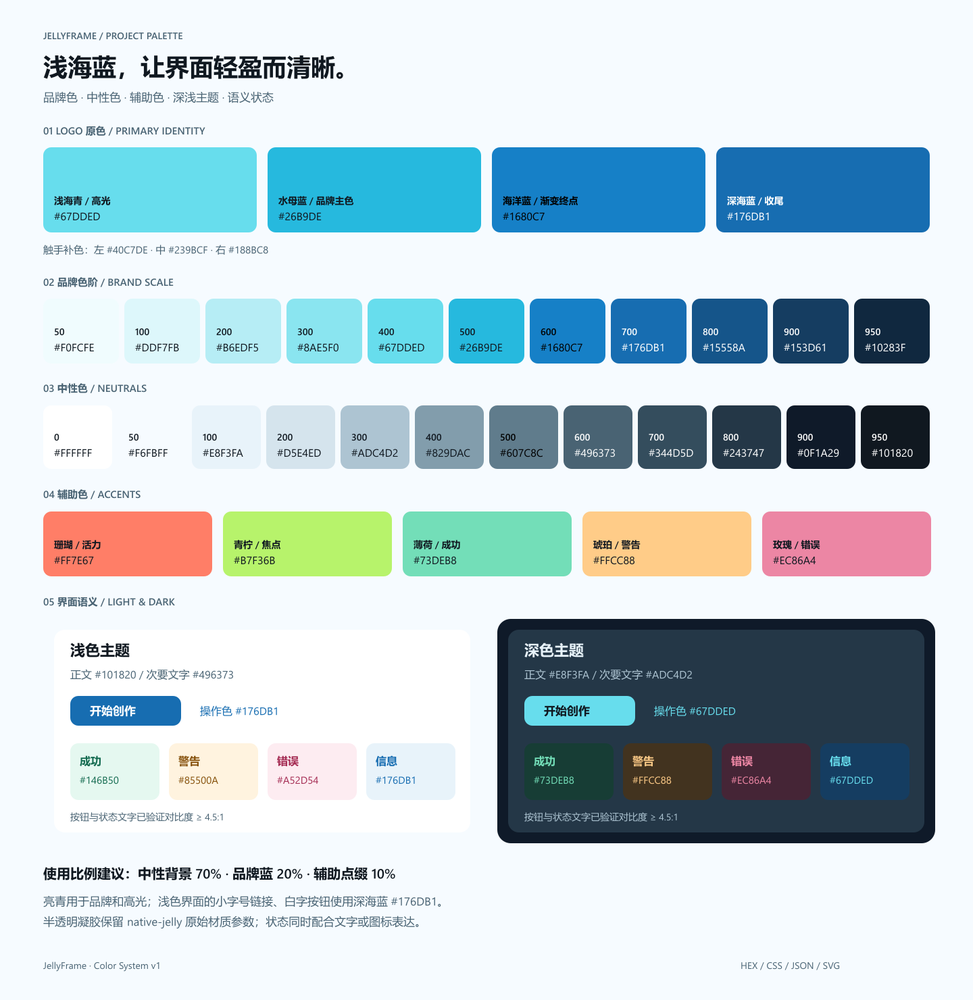
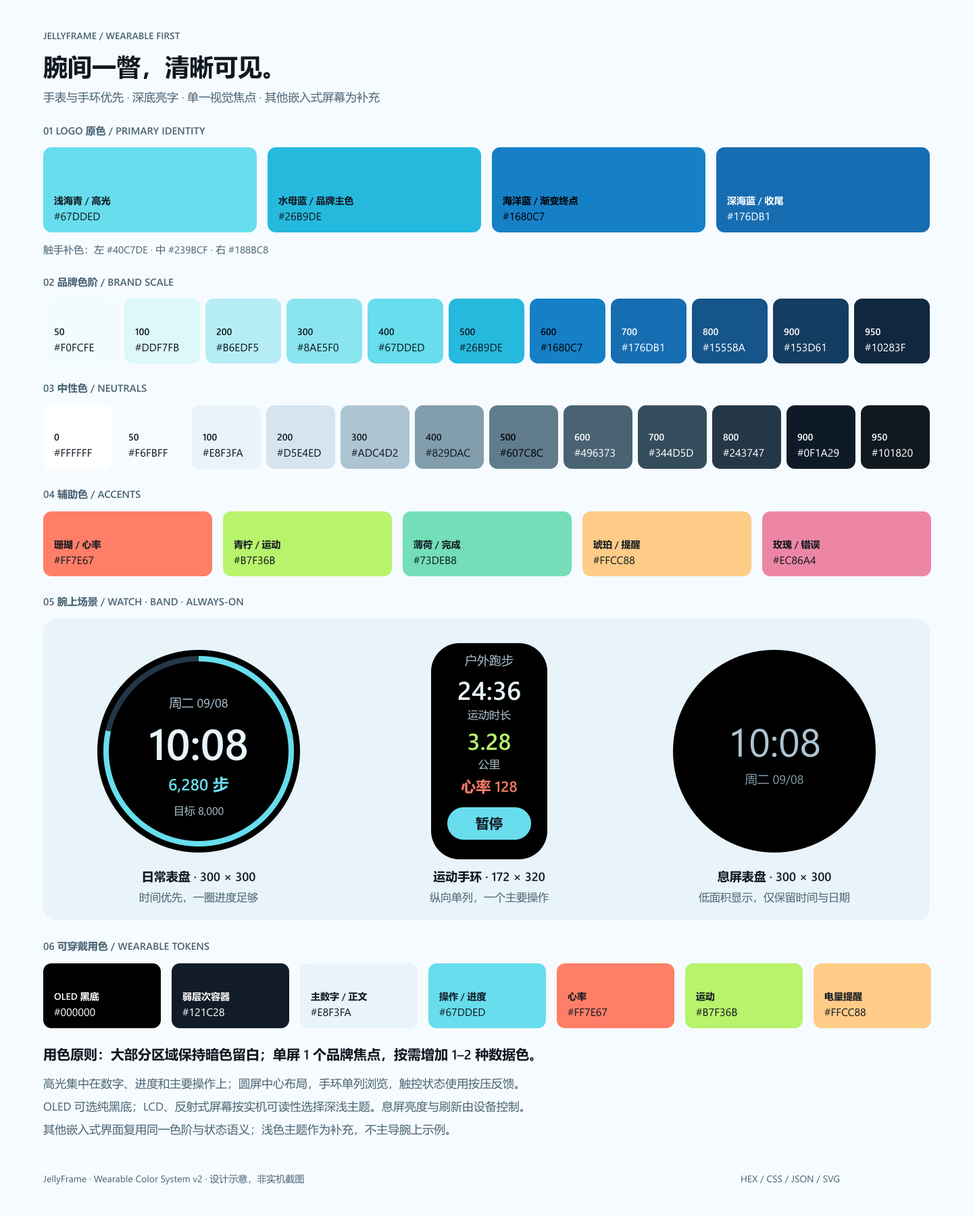
docs(brand): refine wearable-first palette guidance

diff --git a/docs/assets/brand/palette.css b/docs/assets/brand/palette.css
@@ -95,3 +95,38 @@
   --jf-color-info: #67DDED;
   --jf-color-info-surface: #153D61;
 }
+
+.jf-theme-wearable {
+  --jf-color-background: #000000;
+  --jf-color-surface: #121C28;
+  --jf-color-surface-raised: #1C2C3C;
+  --jf-color-text: #E8F3FA;
+  --jf-color-text-muted: #ADC4D2;
+  --jf-color-border: #344D5D;
+  --jf-color-control-border: #829DAC;
+  --jf-color-primary: #67DDED;
+  --jf-color-primary-hover: #8AE5F0;
+  --jf-color-on-primary: #101820;
+  --jf-color-link: #67DDED;
+  --jf-color-focus: #67DDED;
+  --jf-color-selection: #15558A;
+  --jf-color-on-selection: #E8F3FA;
+  --jf-color-success: #73DEB8;
+  --jf-color-success-surface: #173D35;
+  --jf-color-warning: #FFCC88;
+  --jf-color-warning-surface: #42331F;
+  --jf-color-danger: #EC86A4;
+  --jf-color-danger-surface: #452536;
+  --jf-color-info: #67DDED;
+  --jf-color-info-surface: #153D61;
+  --jf-color-primary-pressed: #26B9DE;
+  --jf-color-heart-rate: #FF7E67;
+  --jf-color-activity: #B7F36B;
+  --jf-color-progress-track: #243747;
+}
+
+:root {
+  --jf-aod-background: #000000;
+  --jf-aod-time: #ADC4D2;
+  --jf-aod-text: #829DAC;
+}

diff --git a/docs/assets/brand/generate_palette.py b/docs/assets/brand/generate_palette.py
@@ -1,11 +1,14 @@
 """Generate palette CSS, SVG and reference from palette.json (Python stdlib only)."""
 import json
+import math
 import re
 from html import escape
 from pathlib import Path
 
 ROOT = Path(__file__).resolve().parent
 data = json.loads((ROOT / 'palette.json').read_text(encoding='utf-8'))
+wearable = {**data['themes']['dark'], **data['wearable']}
+themes = {**data['themes'], 'wearable': wearable}
 
 
 def kebab(value):
@@ -33,10 +36,18 @@ for theme, selector in [('light', ':root, .jf-theme-light'), ('dark', '.jf-theme
     for name, value in data['themes'][theme].items():
         css.append(f'  --jf-color-{kebab(name)}: {value};')
     css.append('}')
+css.append('\n.jf-theme-wearable {')
+for name, value in wearable.items():
+    css.append(f'  --jf-color-{kebab(name)}: {value};')
+css.append('}')
+css.append('\n:root {')
+for name, value in data['aod'].items():
+    css.append(f'  --jf-aod-{kebab(name)}: {value};')
+css.append('}')
 (ROOT / 'palette.css').write_text('\n'.join(css) + '\n', encoding='utf-8')
 
 checks = []
-for theme, colors in data['themes'].items():
+for theme, colors in themes.items():
     pairs = [('text', 'background'), ('text', 'surface'), ('text', 'surfaceRaised'),
              ('textMuted', 'background'), ('textMuted', 'surface'),
              ('link', 'background'), ('link', 'surface'),
@@ -52,9 +63,20 @@ for theme, colors in data['themes'].items():
             ratio = contrast(colors[foreground], colors[background])
             assert ratio >= 3, (theme, foreground, background, ratio)
             checks.append(f'| {theme} | `{foreground}` / `{background}`（非文本） | {ratio:.2f}:1 |')
+for key in ('heartRate', 'activity'):
+    ratio = contrast(wearable[key], wearable['background'])
+    assert ratio >= 4.5
+    checks.append(f'| wearable | `{key}` / `background` | {ratio:.2f}:1 |')
+ratio = contrast(wearable['onPrimary'], wearable['primaryPressed'])
+assert ratio >= 4.5
+checks.append(f'| wearable | `onPrimary` / `primaryPressed` | {ratio:.2f}:1 |')
+for key in ('time', 'text'):
+    ratio = contrast(data['aod'][key], data['aod']['background'])
+    assert ratio >= 4.5
+    checks.append(f'| aod | `{key}` / `background` | {ratio:.2f}:1 |')
 
-parts = ['<svg xmlns="http://www.w3.org/2000/svg" width="1440" height="1480" viewBox="0 0 1440 1480">',
-         '<rect width="1440" height="1480" fill="#F6FBFF"/>']
+parts = ['<svg xmlns="http://www.w3.org/2000/svg" width="1440" height="1800" viewBox="0 0 1440 1800">',
+         '<rect width="1440" height="1800" fill="#F6FBFF"/>']
 
 
 def rect(x, y, w, h, fill, radius=0):
@@ -74,9 +96,9 @@ def swatch(x, y, width, height, color, title):
     text(x + 16, y + height - 18, color, 16, ink)
 
 
-text(64, 58, 'JELLYFRAME / PROJECT PALETTE', 14, '#496373', 600)
-text(64, 112, '浅海蓝，让界面轻盈而清晰。', 36, weight=600)
-text(64, 150, '品牌色 · 中性色 · 辅助色 · 深浅主题 · 语义状态', 17, '#496373')
+text(64, 58, 'JELLYFRAME / WEARABLE FIRST', 14, '#496373', 600)
+text(64, 112, '腕间一瞥，清晰可见。', 36, weight=600)
+text(64, 150, '手表与手环优先 · 深底亮字 · 单一视觉焦点 · 其他嵌入式屏幕为补充', 17, '#496373')
 text(64, 199, '01  LOGO 原色 / PRIMARY IDENTITY', 15, '#496373', 600)
 for i, (key, label) in enumerate([('highlight', '浅海青 / 高光'), ('primary', '水母蓝 / 品牌主色'), ('ocean', '海洋蓝 / 渐变终点'), ('depth', '深海蓝 / 收尾')]):
     swatch(64 + i * 332, 218, 316, 126, data['logo'][key], label)
@@ -88,36 +110,62 @@ text(64, 580, '03  中性色 / NEUTRALS', 15, '#496373', 600)
 for i, (key, color) in enumerate(data['neutral'].items()):
     swatch(64 + i * 110, 600, 102, 94, color, key)
 text(64, 737, '04  辅助色 / ACCENTS', 15, '#496373', 600)
-for i, (key, label) in enumerate([('coral', '珊瑚 / 活力'), ('lime', '青柠 / 焦点'), ('mint', '薄荷 / 成功'), ('amber', '琥珀 / 警告'), ('rose', '玫瑰 / 错误')]):
+for i, (key, label) in enumerate([('coral', '珊瑚 / 心率'), ('lime', '青柠 / 运动'), ('mint', '薄荷 / 完成'), ('amber', '琥珀 / 提醒'), ('rose', '玫瑰 / 错误')]):
     swatch(64 + i * 266, 757, 250, 96, data['accent'][key], label)
-text(64, 896, '05  界面语义 / LIGHT & DARK', 15, '#496373', 600)
-for index, theme in enumerate(('light', 'dark')):
-    c = data['themes'][theme]
-    x = 64 + index * 672
-    rect(x, 916, 648, 332, c['background'], 20)
-    rect(x + 16, 932, 616, 300, c['surface'], 16)
-    text(x + 40, 970, '浅色主题' if theme == 'light' else '深色主题', 22, c['text'], 600)
-    text(x + 40, 1004, f"正文 {c['text']}   /   次要文字 {c['textMuted']}", 16, c['textMuted'])
-    rect(x + 40, 1030, 164, 44, c['primary'], 12)
-    text(x + 69, 1058, '开始创作', 17, c['onPrimary'], 600)
-    text(x + 232, 1058, f"操作色 {c['primary']}", 16, c['link'])
-    for j, (key, label) in enumerate([('success', '成功'), ('warning', '警告'), ('danger', '错误'), ('info', '信息')]):
-        sx = x + 40 + j * 146
-        rect(sx, 1100, 132, 84, c[key + 'Surface'], 12)
-        text(sx + 14, 1132, label, 16, c[key], 600)
-        text(sx + 14, 1160, c[key], 15, c[key])
-    text(x + 40, 1214, '按钮与状态文字已验证对比度 ≥ 4.5:1', 14, c['textMuted'])
-text(64, 1300, '使用比例建议：中性背景 70% · 品牌蓝 20% · 辅助点缀 10%', 20, weight=600)
-text(64, 1340, '亮青用于品牌和高光；浅色界面的小字号链接、白字按钮使用深海蓝 #176DB1。', 17, '#496373')
-text(64, 1370, '半透明凝胶保留 native-jelly 原始材质参数；状态同时配合文字或图标表达。', 17, '#496373')
-text(64, 1434, 'JellyFrame · Color System v1', 14, '#496373')
-text(1096, 1434, 'HEX / CSS / JSON / SVG', 14, '#496373')
+text(64, 896, '05  腕上场景 / WATCH · BAND · ALWAYS-ON', 15, '#496373', 600)
+rect(64, 916, 1312, 446, '#E8F3FA', 20)
+c = wearable
+
+
+def center(x, y, label, size, fill, weight=400):
+    parts.append(f'<text x="{x}" y="{y}" text-anchor="middle" font-family="Segoe UI, Microsoft YaHei, sans-serif" font-size="{size}" font-weight="{weight}" fill="{fill}">{escape(label)}</text>')
+
+
+# Device coordinates are literal pixel sizes; these are design references, not runtime captures.
+parts.append('<circle cx="294" cy="1112" r="150" fill="#000000"/>')
+parts.append(f'<circle cx="294" cy="1112" r="137" fill="none" stroke="{c["progressTrack"]}" stroke-width="8"/>')
+ring_length = 2 * math.pi * 137
+parts.append(f'<circle cx="294" cy="1112" r="137" fill="none" stroke="{c["primary"]}" stroke-width="8" stroke-dasharray="{ring_length * 6280 / 8000:.2f} {ring_length:.2f}" transform="rotate(-90 294 1112)"/>')
+center(294, 1047, '周二  09/08', 18, c['textMuted'])
+center(294, 1125, '10:08', 64, c['text'], 600)
+center(294, 1170, '6,280 步', 24, c['primary'], 600)
+center(294, 1206, '目标 8,000', 16, c['textMuted'])
+center(294, 1304, '日常表盘 · 300 × 300', 18, '#101820', 600)
+center(294, 1334, '时间优先，一圈进度足够', 16, '#496373')
+
+rect(638, 952, 172, 320, '#000000', 42)
+center(724, 984, '户外跑步', 18, c['textMuted'])
+center(724, 1036, '24:36', 38, c['text'], 600)
+center(724, 1064, '运动时长', 16, c['textMuted'])
+center(724, 1110, '3.28', 34, c['activity'], 600)
+center(724, 1137, '公里', 16, c['textMuted'])
+center(724, 1172, '心率 128', 22, c['heartRate'], 600)
+rect(662, 1195, 124, 48, c['primary'], 24)
+center(724, 1226, '暂停', 20, c['onPrimary'], 600)
+center(724, 1304, '运动手环 · 172 × 320', 18, '#101820', 600)
+center(724, 1334, '纵向单列，一个主要操作', 16, '#496373')
+
+aod = data['aod']
+parts.append(f'<circle cx="1146" cy="1112" r="150" fill="{aod["background"]}"/>')
+center(1146, 1120, '10:08', 58, aod['time'])
+center(1146, 1160, '周二  09/08', 18, aod['text'])
+center(1146, 1304, '息屏表盘 · 300 × 300', 18, '#101820', 600)
+center(1146, 1334, '低面积显示，仅保留时间与日期', 16, '#496373')
+text(64, 1406, '06  可穿戴用色 / WEARABLE TOKENS', 15, '#496373', 600)
+for i, (color, label) in enumerate([(c['background'], 'OLED 黑底'), (c['surface'], '弱层次容器'), (c['text'], '主数字 / 正文'), (c['primary'], '操作 / 进度'), (c['heartRate'], '心率'), (c['activity'], '运动'), (c['warning'], '电量提醒')]):
+    swatch(64 + i * 190, 1426, 174, 96, color, label)
+text(64, 1568, '用色原则：大部分区域保持暗色留白；单屏 1 个品牌焦点，按需增加 1–2 种数据色。', 20, weight=600)
+text(64, 1610, '高光集中在数字、进度和主要操作上；圆屏中心布局，手环单列浏览，触控状态使用按压反馈。', 17, '#496373')
+text(64, 1644, 'OLED 可选纯黑底；LCD、反射式屏幕按实机可读性选择深浅主题。息屏亮度与刷新由设备控制。', 17, '#496373')
+text(64, 1678, '其他嵌入式界面复用同一色阶与状态语义；浅色主题作为补充，不主导腕上示例。', 17, '#496373')
+text(64, 1750, 'JellyFrame · Wearable Color System v2 · 设计示意，非实机截图', 14, '#496373')
+text(1096, 1750, 'HEX / CSS / JSON / SVG', 14, '#496373')
 parts.append('</svg>')
 (ROOT / 'palette.svg').write_text('\n'.join(parts) + '\n', encoding='utf-8')
 
-doc = ['# JellyFrame 项目色卡', '', '> 最后更新：2026-09-08；色卡版本：1；适用版本：0.6.0-dev', '',
+doc = ['# JellyFrame 可穿戴优先项目色卡', '', '> 最后更新：2026-09-08；适用版本：0.6.0-dev；色卡版本：2', '',
        '![JellyFrame 项目色卡](palette.png)', '',
-       '本色卡从实际 Logo 配色扩展，沿用 `native-jelly` 的浅海蓝、珊瑚、青柠与凝胶材质。新增色阶和语义映射供后续界面使用；当前应用模板的配色不会因添加色卡自动改变。', '',
+       '首要服务对象是小屏可穿戴设备，尤其是手表与手环；其他嵌入式屏幕为次要场景。保留已确定的 Logo 原色和色阶，以深底亮字、大数字、少量数据色和短时扫读为主要应用方式。色卡示例为设计参考，未自动修改现有 app 模板。', '',
        '## Logo 的实际用色', '', '| 角色 | HEX |', '| --- | --- |']
 for key, color in data['logo'].items():
     doc.append(f'| {key} | `{color}` |')
@@ -129,20 +177,39 @@ doc += ['', '品牌 500 是视觉主色；品牌 700 是浅色界面的主要操
         '## 深浅主题语义', '', '| Token | 浅色 | 深色 |', '| --- | --- | --- |']
 for key, value in data['themes']['light'].items():
     doc.append(f"| `{key}` | `{value}` | `{data['themes']['dark'][key]}` |")
-doc += ['', '## 凝胶材质', '', '以下数值保留现有设计系统定义。RGBA 是叠加层参数，最终观感取决于底色，不能当成固定 HEX 或直接作为文字对比度保证。', '', '| Token | 值 |', '| --- | --- |']
+doc += ['', '## 可穿戴主题（首选）', '',
+        '`.jf-theme-wearable` 继承深色语义，使用以下覆盖和数据色。适用于 OLED 手表、手环的活跃界面；LCD 或反射式屏幕按面板特性和户外实测选择深浅主题，纯黑底的功耗收益不适用于所有显示技术。', '',
+        '| Token | 值 |', '| --- | --- |']
+doc += [f'| `{key}` | `{value}` |' for key, value in data['wearable'].items()]
+doc += ['', '`primaryPressed` 用于触控按下反馈；腕上交互不依赖 hover。珊瑚心率色和青柠运动色表示数据类别，不能直接表示健康异常或告警级别。提醒继续使用 warning，错误使用 danger，并配合文字或图标。', '',
+        '### 息屏表盘（AOD）', '', '| Token | 值 |', '| --- | --- |']
+doc += [f'| `{key}` | `{value}` |' for key, value in data['aod'].items()]
+doc += ['', 'AOD 是独立的显示建议：只保留时间和必要日期，去除进度环、渐变、大面积填充和按钮。色值本身不会启用息屏模式或保证功耗；低亮度、刷新间隔、像素位移与防烧屏策略由设备端实现并验证。', '',
+        '### 小屏布局与配色示例', '',
+        '- 300×300 圆表：时间为第一层，步数为第二层，进度环只作为辅助。重要信息居中并避开圆屏裁切区；示意边缘环允许使用边缘区域。',
+        '- 172×320 手环：单列显示运动时长、距离和心率，底部仅一个“暂停”操作。不要把桌面多列卡片等比缩小。示例按钮为 124×48 像素，实际触控目标应根据面板尺寸、像素密度、交互方式和触控误差验证。',
+        '- 色卡中的设备画面采用对应的逻辑像素尺寸；图片在文档中缩放后不代表真实物理尺寸。它们是设计示意，不是 JellyFrame 引擎截图。',
+        '- 活跃界面使用大面积暗底与留白，单屏通常一个品牌焦点，按需增加 1–2 种数据色。不要机械执行桌面页面的 70/20/10 色块比例。',
+        '- 主数字建议从 32–64 逻辑像素探索，关键标签从 16–20 像素探索；最终以字体包、面板像素密度、腕距和户外可读性校准。',
+        '- 优先使用实色文字和实色进度，凝胶高光限于小范围主动交互，常驻界面避免持续装饰动画；AOD 不使用凝胶叠层。',
+        '- RGB565、灰度和单色目标需要实机复核色差、条带、文字与进度辨识度。即使没有色彩，数值、标签和进度形状也应传达状态。', '',
+        '## 凝胶材质', '', '以下数值保留现有设计系统定义。RGBA 是叠加层参数，最终观感取决于底色，不能当成固定 HEX 或直接作为文字对比度保证。', '', '| Token | 值 |', '| --- | --- |']
 doc += [f'| `{key}` | `{value}` |' for key, value in data['material'].items()]
 doc += ['', '## 使用规则与接入', '',
-        '- 建议中性色约 70%、品牌蓝约 20%、辅助点缀约 10%；这是视觉配比建议，不是布局约束。',
+        '- 手表、手环优先使用可穿戴主题；其他嵌入式界面复用深浅主题与相同状态语义。',
         '- 亮青优先用于标识、图形和高光。浅色主题的小字链接、白字按钮使用 `#176DB1`；不要直接在明亮的品牌 500 上叠加白色小字。',
         '- `border` 用于装饰分隔；需要识别控件边界时使用 `controlBorder`。焦点环与控件之间留出背景色间隔。',
         '- 状态同时配合文案或图标；珊瑚与青柠是点缀色，不默认绑定错误或成功。',
         '- VS Code 内部控件继续使用 `--vscode-*` 主题变量，保持用户主题与高对比主题适配；本色卡适合项目自有界面和品牌素材。',
         '- `palette.json` 是色卡数据源；运行 `python docs/assets/brand/generate_palette.py` 更新 CSS、SVG 和本文，并验证不透明颜色配对的对比度。PNG 是 SVG 的栅格预览，需在修改后重新导出。',
         '- `palette.css` 使用 `--jf-brand-*`、`--jf-neutral-*`、`--jf-accent-*`、`--jf-material-*` 和 `--jf-color-*`，避开现有 `--jf-surface` 等模板变量。导入后将语义变量映射到需要的控件样式。', '',
-        '```css', '/* 引入 palette.css；默认浅色。给主题容器添加 jf-theme-dark 可切换深色。 */',
+        '```css', '/* 引入 palette.css，并为设备 app 的根容器添加 jf-theme-wearable。 */',
         '.app { background-color: var(--jf-color-background); color: var(--jf-color-text); }',
         '.primary-button { background-color: var(--jf-color-primary); color: var(--jf-color-on-primary); }',
+        '.jf-theme-wearable .primary-button:active { background-color: var(--jf-color-primary-pressed); }',
+        '.aod { background-color: var(--jf-aod-background); color: var(--jf-aod-time); }',
         '```', '',
+        'CSS 保留默认浅色以兼容已有引用；腕上 app 显式使用 `jf-theme-wearable`。`jf-theme-light` / `jf-theme-dark` 可供其他设备选择。AOD 变量仅提供显示色值，不触发设备生命周期或电源管理。', '',
         'Logo 的三色渐变用于 SVG 品牌素材。嵌入式 UI 按现有渲染能力使用两色渐变 `linear-gradient(#67DDED, #1680C7)`，不将 SVG 或三色渐变支持视为运行时前提。', '',
         '## 对比度记录', '', '按 WCAG sRGB 相对亮度计算，以下不透明文字配对通过 AA 普通文本 4.5:1；标注“非文本”的焦点与控件边界配对通过 3:1。该记录只覆盖列出的组合，不代表任意叠层、渐变或整套应用均通过检查。', '',
         '| 主题 | 前景 / 背景 | 对比度 |', '| --- | --- | --- |', *checks, '']

diff --git a/docs/assets/brand/PALETTE_zh.md b/docs/assets/brand/PALETTE_zh.md
@@ -1,10 +1,10 @@
-# JellyFrame 项目色卡
+# JellyFrame 可穿戴优先项目色卡
 
-> 最后更新：2026-09-08；色卡版本：1；适用版本：0.6.0-dev
+> 最后更新：2026-09-08；适用版本：0.6.0-dev；色卡版本：2
 
 ![JellyFrame 项目色卡](palette.png)
 
-本色卡从实际 Logo 配色扩展，沿用 `native-jelly` 的浅海蓝、珊瑚、青柠与凝胶材质。新增色阶和语义映射供后续界面使用；当前应用模板的配色不会因添加色卡自动改变。
+首要服务对象是小屏可穿戴设备，尤其是手表与手环；其他嵌入式屏幕为次要场景。保留已确定的 Logo 原色和色阶，以深底亮字、大数字、少量数据色和短时扫读为主要应用方式。色卡示例为设计参考，未自动修改现有 app 模板。
 
 ## Logo 的实际用色
 
@@ -57,6 +57,42 @@
 | `info` | `#176DB1` | `#67DDED` |
 | `infoSurface` | `#E8F3FA` | `#153D61` |
 
+## 可穿戴主题（首选）
+
+`.jf-theme-wearable` 继承深色语义，使用以下覆盖和数据色。适用于 OLED 手表、手环的活跃界面；LCD 或反射式屏幕按面板特性和户外实测选择深浅主题，纯黑底的功耗收益不适用于所有显示技术。
+
+| Token | 值 |
+| --- | --- |
+| `background` | `#000000` |
+| `surface` | `#121C28` |
+| `surfaceRaised` | `#1C2C3C` |
+| `primaryPressed` | `#26B9DE` |
+| `heartRate` | `#FF7E67` |
+| `activity` | `#B7F36B` |
+| `progressTrack` | `#243747` |
+
+`primaryPressed` 用于触控按下反馈；腕上交互不依赖 hover。珊瑚心率色和青柠运动色表示数据类别，不能直接表示健康异常或告警级别。提醒继续使用 warning，错误使用 danger，并配合文字或图标。
+
+### 息屏表盘（AOD）
+
+| Token | 值 |
+| --- | --- |
+| `background` | `#000000` |
+| `time` | `#ADC4D2` |
+| `text` | `#829DAC` |
+
+AOD 是独立的显示建议：只保留时间和必要日期，去除进度环、渐变、大面积填充和按钮。色值本身不会启用息屏模式或保证功耗；低亮度、刷新间隔、像素位移与防烧屏策略由设备端实现并验证。
+
+### 小屏布局与配色示例
+
+- 300×300 圆表：时间为第一层，步数为第二层，进度环只作为辅助。重要信息居中并避开圆屏裁切区；示意边缘环允许使用边缘区域。
+- 172×320 手环：单列显示运动时长、距离和心率，底部仅一个“暂停”操作。不要把桌面多列卡片等比缩小。示例按钮为 124×48 像素，实际触控目标应根据面板尺寸、像素密度、交互方式和触控误差验证。
+- 色卡中的设备画面采用对应的逻辑像素尺寸；图片在文档中缩放后不代表真实物理尺寸。它们是设计示意，不是 JellyFrame 引擎截图。
+- 活跃界面使用大面积暗底与留白，单屏通常一个品牌焦点，按需增加 1–2 种数据色。不要机械执行桌面页面的 70/20/10 色块比例。
+- 主数字建议从 32–64 逻辑像素探索，关键标签从 16–20 像素探索；最终以字体包、面板像素密度、腕距和户外可读性校准。
+- 优先使用实色文字和实色进度，凝胶高光限于小范围主动交互，常驻界面避免持续装饰动画；AOD 不使用凝胶叠层。
+- RGB565、灰度和单色目标需要实机复核色差、条带、文字与进度辨识度。即使没有色彩，数值、标签和进度形状也应传达状态。
+
 ## 凝胶材质
 
 以下数值保留现有设计系统定义。RGBA 是叠加层参数，最终观感取决于底色，不能当成固定 HEX 或直接作为文字对比度保证。
@@ -75,7 +111,7 @@
 
 ## 使用规则与接入
 
-- 建议中性色约 70%、品牌蓝约 20%、辅助点缀约 10%；这是视觉配比建议，不是布局约束。
+- 手表、手环优先使用可穿戴主题；其他嵌入式界面复用深浅主题与相同状态语义。
 - 亮青优先用于标识、图形和高光。浅色主题的小字链接、白字按钮使用 `#176DB1`；不要直接在明亮的品牌 500 上叠加白色小字。
 - `border` 用于装饰分隔；需要识别控件边界时使用 `controlBorder`。焦点环与控件之间留出背景色间隔。
 - 状态同时配合文案或图标；珊瑚与青柠是点缀色，不默认绑定错误或成功。
@@ -84,10 +120,14 @@
 - `palette.css` 使用 `--jf-brand-*`、`--jf-neutral-*`、`--jf-accent-*`、`--jf-material-*` 和 `--jf-color-*`，避开现有 `--jf-surface` 等模板变量。导入后将语义变量映射到需要的控件样式。
 
 ```css
-/* 引入 palette.css；默认浅色。给主题容器添加 jf-theme-dark 可切换深色。 */
+/* 引入 palette.css，并为设备 app 的根容器添加 jf-theme-wearable。 */
 .app { background-color: var(--jf-color-background); color: var(--jf-color-text); }
 .primary-button { background-color: var(--jf-color-primary); color: var(--jf-color-on-primary); }
+.jf-theme-wearable .primary-button:active { background-color: var(--jf-color-primary-pressed); }
+.aod { background-color: var(--jf-aod-background); color: var(--jf-aod-time); }
 ```
+
+CSS 保留默认浅色以兼容已有引用；腕上 app 显式使用 `jf-theme-wearable`。`jf-theme-light` / `jf-theme-dark` 可供其他设备选择。AOD 变量仅提供显示色值，不触发设备生命周期或电源管理。
 
 Logo 的三色渐变用于 SVG 品牌素材。嵌入式 UI 按现有渲染能力使用两色渐变 `linear-gradient(#67DDED, #1680C7)`，不将 SVG 或三色渐变支持视为运行时前提。
 
@@ -133,3 +173,26 @@ Logo 的三色渐变用于 SVG 品牌素材。嵌入式 UI 按现有渲染能力
 | dark | `focus` / `surface`（非文本） | 7.67:1 |
 | dark | `controlBorder` / `background`（非文本） | 6.14:1 |
 | dark | `controlBorder` / `surface`（非文本） | 4.30:1 |
+| wearable | `text` / `background` | 18.63:1 |
+| wearable | `text` / `surface` | 15.24:1 |
+| wearable | `text` / `surfaceRaised` | 12.63:1 |
+| wearable | `textMuted` / `background` | 11.60:1 |
+| wearable | `textMuted` / `surface` | 9.49:1 |
+| wearable | `link` / `background` | 13.14:1 |
+| wearable | `link` / `surface` | 10.75:1 |
+| wearable | `onPrimary` / `primary` | 11.20:1 |
+| wearable | `onPrimary` / `primaryHover` | 12.40:1 |
+| wearable | `onSelection` / `selection` | 6.91:1 |
+| wearable | `success` / `successSurface` | 7.33:1 |
+| wearable | `warning` / `warningSurface` | 8.26:1 |
+| wearable | `danger` / `dangerSurface` | 5.42:1 |
+| wearable | `info` / `infoSurface` | 7.02:1 |
+| wearable | `focus` / `background`（非文本） | 13.14:1 |
+| wearable | `focus` / `surface`（非文本） | 10.75:1 |
+| wearable | `controlBorder` / `background`（非文本） | 7.37:1 |
+| wearable | `controlBorder` / `surface`（非文本） | 6.03:1 |
+| wearable | `heartRate` / `background` | 8.43:1 |
+| wearable | `activity` / `background` | 16.05:1 |
+| wearable | `onPrimary` / `primaryPressed` | 7.73:1 |
+| aod | `time` / `background` | 11.60:1 |
+| aod | `text` / `background` | 7.37:1 |

diff --git a/docs/assets/brand/README_zh.md b/docs/assets/brand/README_zh.md
@@ -1,12 +1,14 @@
 # JellyFrame 品牌标识
 
+> 最后更新：2026-09-08；适用版本：0.6.0-dev
+
 本稿依据项目现有的 `native-jelly` 视觉语言设计：浅海蓝、柔软膜面、水母与果冻。圆拱形外轮廓同时表达水母伞盖与小屏界面框架；内部留白是屏幕窗口；中间下垂的笔画形成字母 J。常规版与单色版共享轮廓。
 
 第二次微调：在 24 单位画布中，三条触手均加长 0.75 单位，中间 J 的弯钩向左舒展 0.25 单位，增加触手占比并保留原有伞盖和配色。
 
 ## 文件
 
-项目配色见 [完整色卡与使用规范](PALETTE_zh.md)，附 [色卡预览](palette.png)、[SVG 色卡](palette.svg)、[CSS 变量](palette.css) 和 [JSON 数据](palette.json)。
+项目配色见 [可穿戴优先色卡与使用规范](PALETTE_zh.md)，包含圆形手表、窄屏运动手环与息屏表盘示例；附 [色卡预览](palette.png)、[SVG 色卡](palette.svg)、[CSS 变量](palette.css) 和 [JSON 数据](palette.json)。其他嵌入式屏幕复用同一色阶作为补充场景。
 
 | 文件 | 用途 |
 | --- | --- |

diff --git a/docs/jelly_ui_design_system_zh.md b/docs/jelly_ui_design_system_zh.md
@@ -10,6 +10,8 @@
 
 ## 设计目标
 
+首要服务对象是手表、手环等小屏可穿戴设备，其他嵌入式设备为次要场景。优先设计腕间短时扫读、圆屏安全区、窄屏单列与触控反馈；配色和示例以 [可穿戴优先项目色卡](assets/brand/PALETTE_zh.md) 的圆表、运动手环及息屏表盘为参考。活跃界面和 AOD 分别设计，显示功耗与户外可读性按面板实测。
+
 - 让 JellyFrame app 一眼能被识别为胶体、水母、果冻气质，而不是普通卡片 UI。
 - 只依赖当前运行时能稳定兑现的 HTML/CSS/render-core 能力。
 - 所有视觉效果都有低成本降级路径，不能依赖浏览器专有的 blur、blend、SVG 或

diff --git a/docs/jelly_ui_design_system.md b/docs/jelly_ui_design_system.md
@@ -11,6 +11,8 @@ shippable, testable and degradable on the current engine.
 
 ## Goals
 
+Watches and fitness bands are the primary audience; other embedded devices are secondary. Prioritize glanceable information, circular-screen safe areas, narrow single-column layouts and touch feedback. The [wearable-first palette](assets/brand/PALETTE_zh.md) provides watch, fitness-band and always-on display examples. Design active and always-on screens separately, and validate outdoor readability and power behavior on the target panel.
+
 - Make JellyFrame apps visually recognizable as soft gel interfaces.
 - Use only features the current runtime can reliably honor.
 - Give every visual effect a low-cost fallback.
